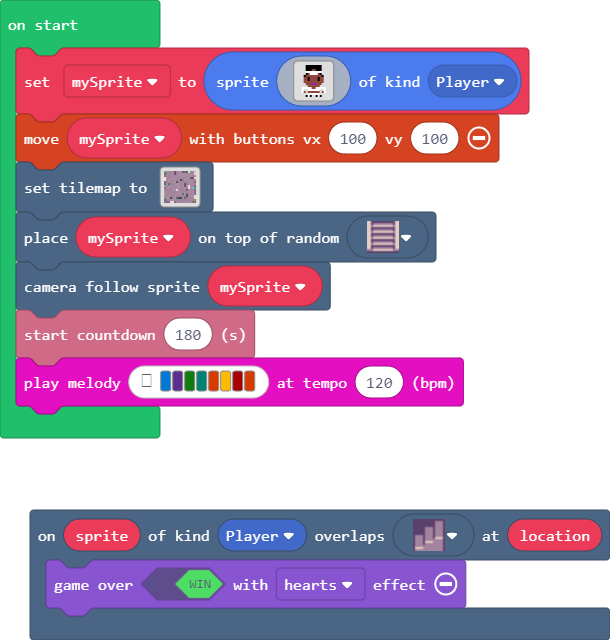
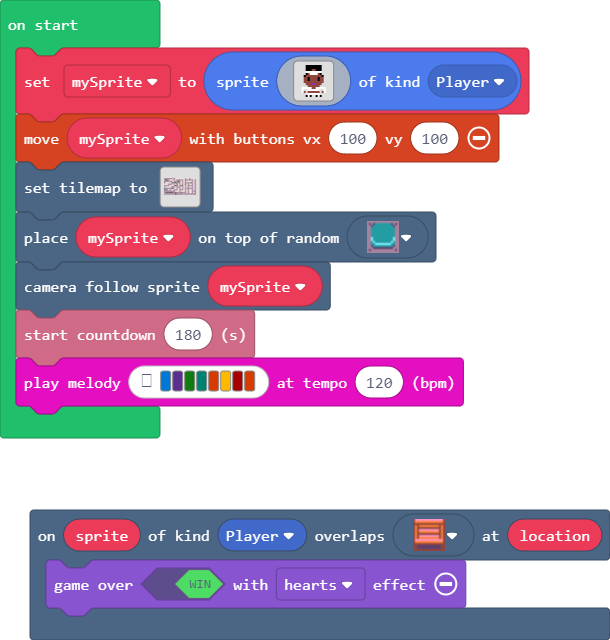
Update main.blocks, main.ts

Changed region(s): [[0.2492, 0.25, 0.3426, 0.3438], [0.6541, 0.8125, 0.7475, 0.875], [0.5918, 0.3438, 0.6541, 0.4062]]

diff --git a/main.ts b/main.ts
@@ -18,8 +18,27 @@ namespace myTiles {
 . . . . . . . . . . . . . . . . 
 . . . . . . . . . . . . . . . . 
 `
+    //% blockIdentity=images._tile
+    export const tile1 = img`
+. . . . . . . . . . . . . . . . 
+. . . . . . . . . . . . . . . . 
+. . . . . . . . . . . . . . . . 
+. . . . . . . . . . . . . . . . 
+. . . . . . . . . . . . . . . . 
+. . . . . . . . . . . . . . . . 
+. . . . . . . . . . . . . . . . 
+. . . . . . . . . . . . . . . . 
+. . . . . . . . . . . . . . . . 
+. . . . . . . . . . . . . . . . 
+. . . . . . . . . . . . . . . . 
+. . . . . . . . . . . . . . . . 
+. . . . . . . . . . . . . . . . 
+. . . . . . . . . . . . . . . . 
+. . . . . . . . . . . . . . . . 
+. . . . . . . . . . . . . . . . 
+`
 }
-scene.onOverlapTile(SpriteKind.Player, sprites.dungeon.stairLarge, function (sprite, location) {
+scene.onOverlapTile(SpriteKind.Player, sprites.dungeon.stairLadder, function (sprite, location) {
     game.over(true, effects.hearts)
 })
 let mySprite = sprites.create(img`
@@ -42,29 +61,25 @@ let mySprite = sprites.create(img`
 `, SpriteKind.Player)
 controller.moveSprite(mySprite, 100, 100)
 tiles.setTilemap(tiles.createTilemap(
[2 lines of base64/hex data omitted]
             img`
-. . . . . . . . . . . . . . . . 
-. . . . . . . . . . . . . . . . 
-. . . . . . . . . . . . . . . . 
-. . . . . . . . . . . . . . . . 
-. . . . . . . . . . . . . . . . 
-. . . . . . . . . . . . . . . . 
-. . . . . . . . . . . . . . . . 
-. . . . . . . . . . . . . . . . 
-. . . . . . . . . . . . . . . . 
-. . . . . . . . . . . . . . . . 
-. . . . . . . . . . . . . . . . 
-. . . . . . . . . . . . . . . . 
-. . . . . . . . . . . . . . . . 
-. . . . . . . . . . . . . . . . 
-. . . . . . . . . . . . . . . . 
-. . . . . . . . . . . . . . . . 
+. . . . . . . . 2 2 2 2 2 2 2 2 2 2 . 2 2 2 2 
+. 2 2 . 2 2 2 . 2 . . . . . 2 2 . . . . . 2 . 
+. . . . . . 2 . . . 2 . 2 . 2 . 2 2 2 2 . 2 . 
+2 2 2 2 2 . 2 . 2 . . . 2 . 2 . . . . 2 . 2 . 
+2 2 2 . . . 2 . 2 2 2 . 2 . 2 2 2 . 2 2 . 2 . 
+. . . . 2 2 2 . 2 . 2 . 2 . 2 . 2 . . . . 2 . 
+. 2 2 2 2 . . . 2 . . . 2 . 2 . 2 . 2 2 . 2 . 
+. . . . . . 2 2 2 . 2 . 2 . 2 . . . 2 . . 2 . 
+2 2 . 2 . 2 2 . . . 2 . . . 2 . 2 . 2 2 . 2 . 
+. . . . . . . . 2 2 2 . 2 2 2 . 2 . 2 2 . . . 
+. 2 2 2 2 2 2 . 2 . . . 2 . . . 2 . 2 2 2 2 . 
+. . . . . . . . 2 . . . . . 2 . . . . . . . . 
 `,
-            [myTiles.tile0,sprites.builtin.brick,sprites.vehicle.roadHorizontal,sprites.vehicle.roadIntersection1,sprites.vehicle.roadVertical,sprites.vehicle.roadTurn4,sprites.dungeon.floorLight1,sprites.dungeon.floorDark3,sprites.dungeon.stairEast,sprites.dungeon.stairLarge,sprites.dungeon.stairNorth,sprites.dungeon.greenSwitchDown,sprites.dungeon.doorClosedNorth,sprites.builtin.forestTiles16,sprites.builtin.crowd5,sprites.vehicle.roadIntersection3,sprites.vehicle.roadTurn1,sprites.vehicle.roadTurn2,sprites.builtin.crowd9,sprites.dungeon.hazardSpike,sprites.vehicle.roadTurn3,sprites.vehicle.roadIntersection2,sprites.castle.saplingOak,sprites.castle.shrub,sprites.castle.rock0,sprites.castle.rock2,sprites.castle.rock1,sprites.vehicle.roadIntersection4,sprites.castle.saplingPine,sprites.builtin.crowd1,sprites.builtin.crowd0,sprites.dungeon.buttonTeal,sprites.dungeon.hazardWater,sprites.dungeon.hazardHole,sprites.dungeon.chestClosed,sprites.dungeon.purpleSwitchDown],
+            [myTiles.tile0,sprites.builtin.brick,sprites.vehicle.roadHorizontal,sprites.vehicle.roadIntersection1,sprites.vehicle.roadVertical,sprites.vehicle.roadTurn4,sprites.dungeon.floorLight1,sprites.dungeon.floorDark3,sprites.dungeon.stairEast,sprites.dungeon.stairLarge,sprites.dungeon.stairNorth,sprites.dungeon.greenSwitchDown,sprites.dungeon.doorClosedNorth,sprites.builtin.forestTiles16,sprites.builtin.crowd5,sprites.vehicle.roadIntersection3,sprites.vehicle.roadTurn1,sprites.vehicle.roadTurn2,sprites.builtin.crowd9,sprites.dungeon.hazardSpike,sprites.vehicle.roadTurn3,sprites.vehicle.roadIntersection2,sprites.castle.saplingOak,sprites.castle.shrub,sprites.castle.rock0,sprites.castle.rock2,sprites.castle.rock1,sprites.vehicle.roadIntersection4,sprites.castle.saplingPine,sprites.builtin.crowd1,sprites.builtin.crowd0,sprites.dungeon.buttonTeal,sprites.dungeon.hazardWater,sprites.dungeon.hazardHole,sprites.dungeon.chestClosed,sprites.dungeon.purpleSwitchDown,myTiles.tile1,sprites.dungeon.stairLadder],
             TileScale.Sixteen
         ))
-tiles.placeOnRandomTile(mySprite, sprites.dungeon.stairNorth)
+tiles.placeOnRandomTile(mySprite, sprites.dungeon.buttonTeal)
 scene.cameraFollowSprite(mySprite)
 info.startCountdown(180)
 music.playMelody("E D G F B A C5 B ", 120)
